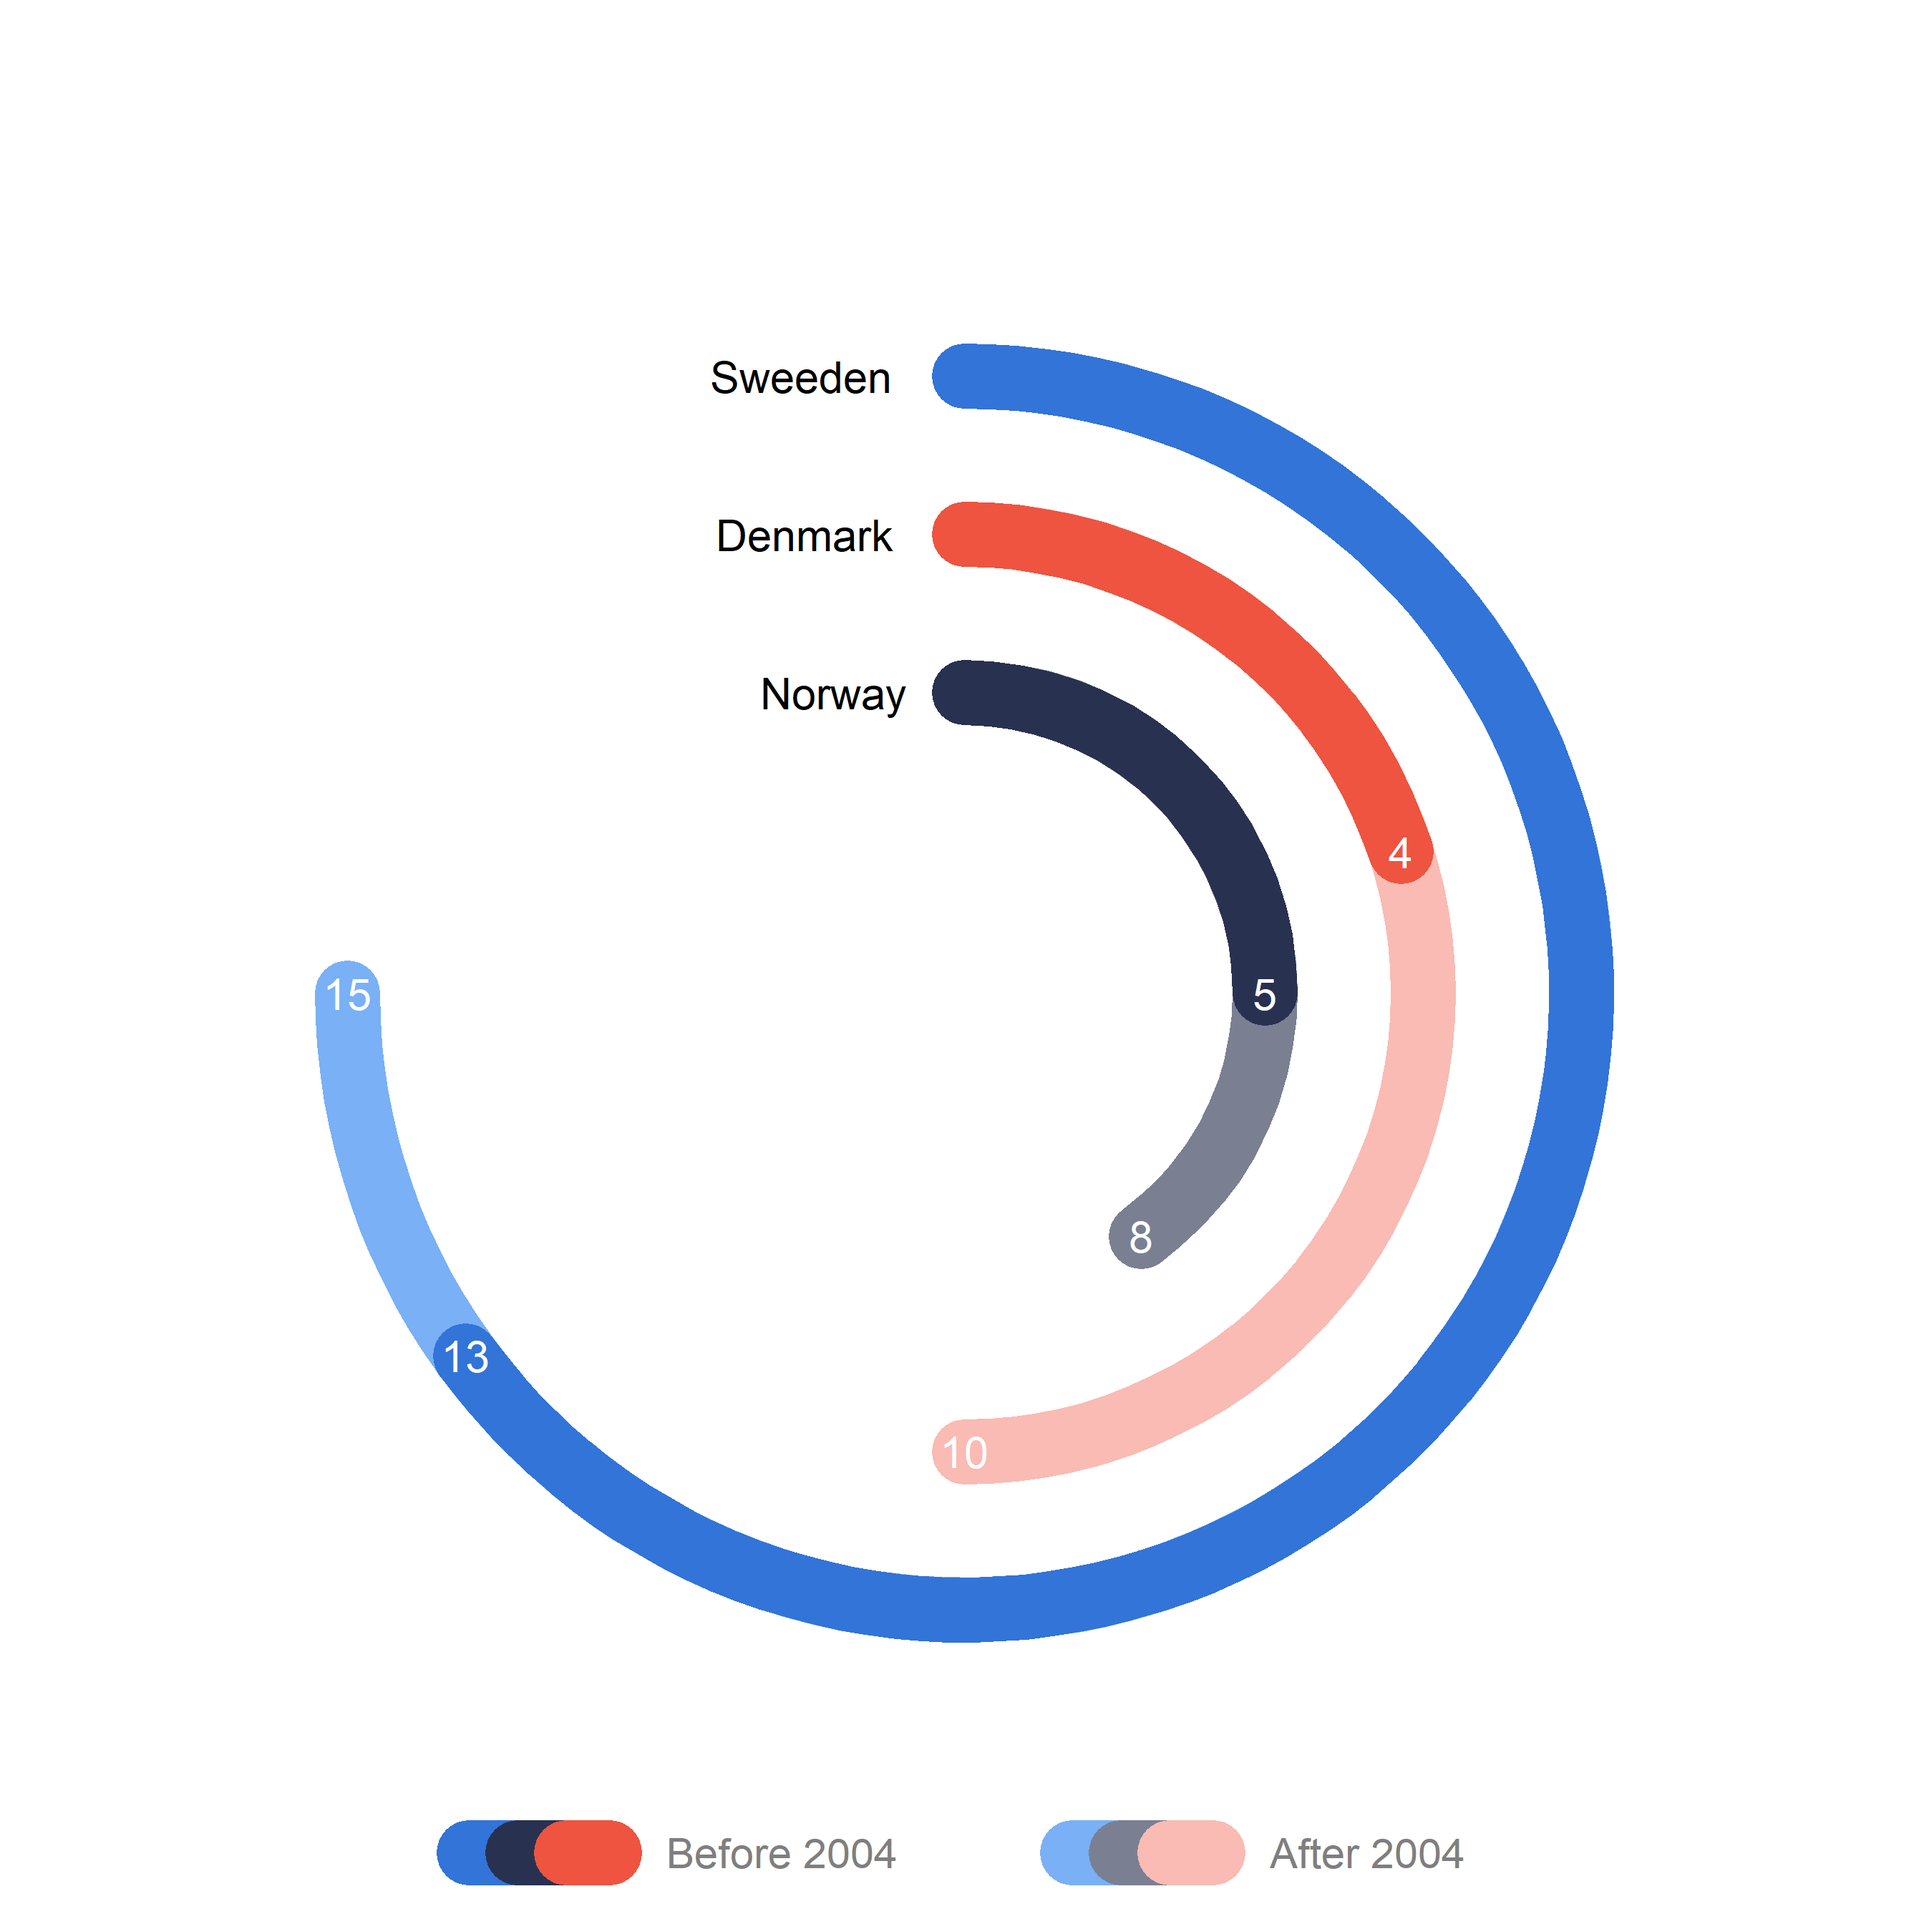
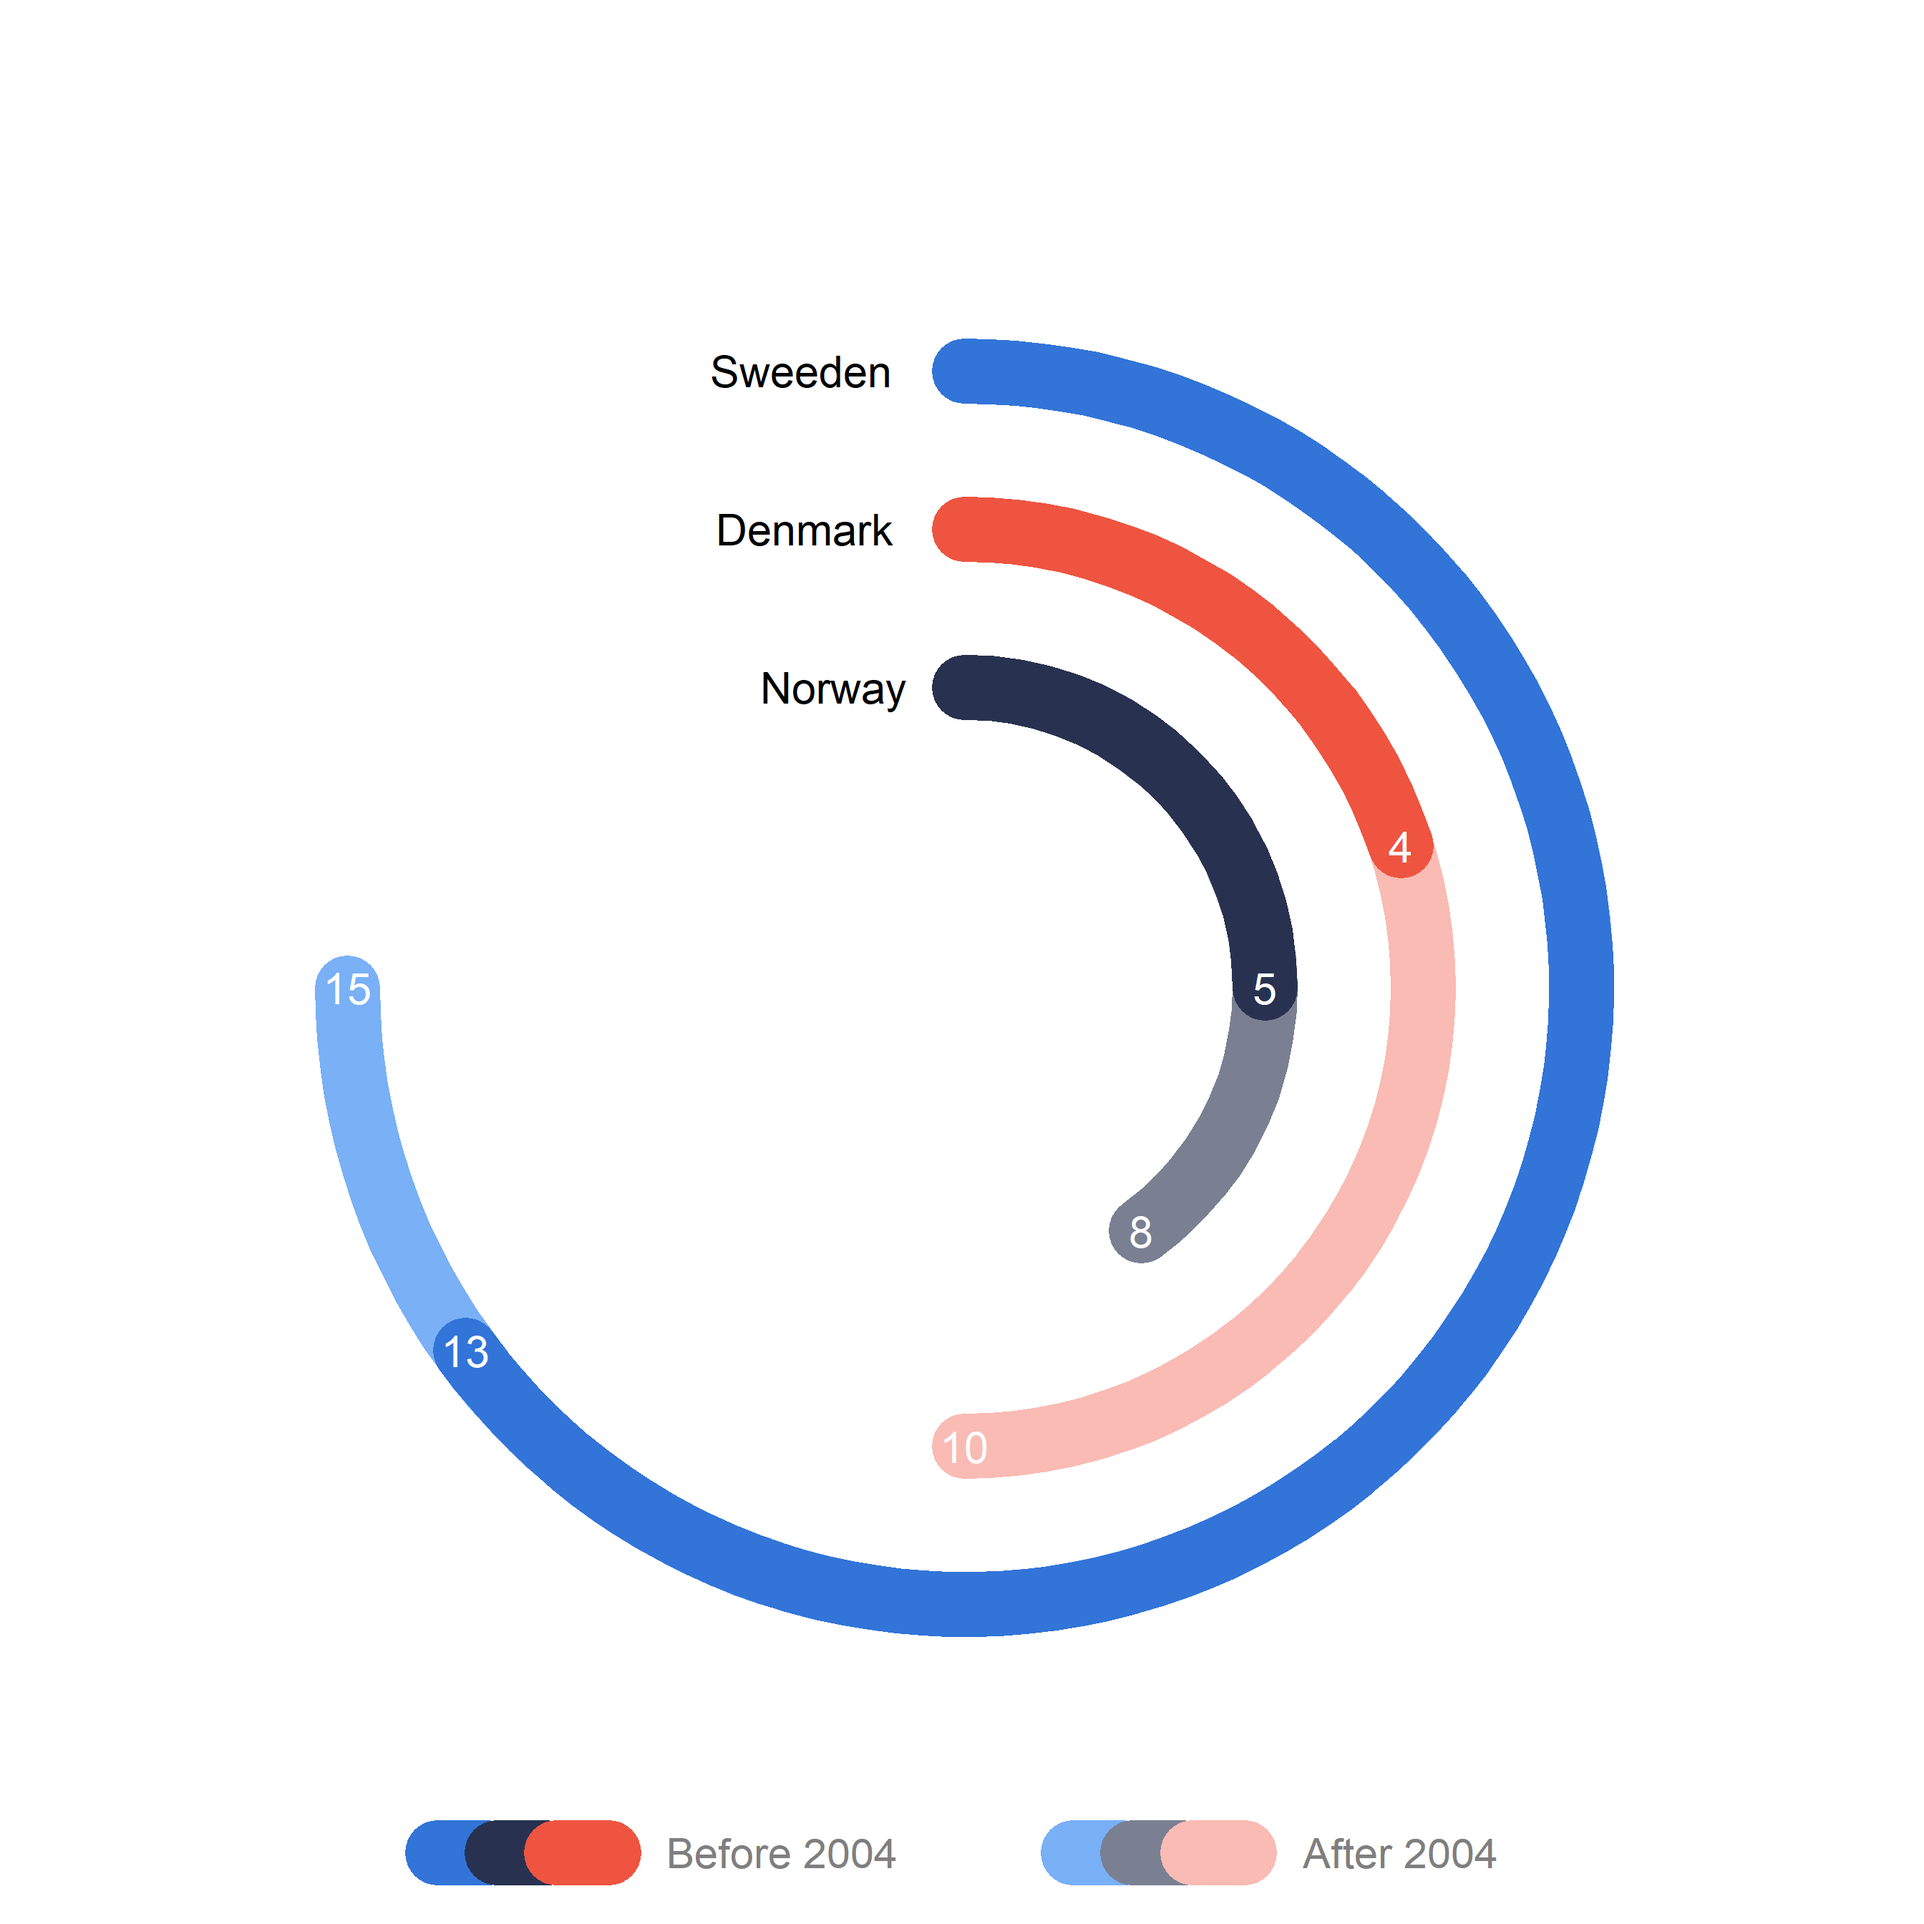
0.085

diff --git a/docs/radial.html b/docs/radial.html
@@ -502,7 +502,7 @@ Figure&nbsp;1: The original graph obtained from 1 dataset 100 visualizations cre
 <span>  <span class="fu"><a href="https://ggplot2.tidyverse.org/reference/geom_text.html">geom_text</a></span><span class="op">(</span>data <span class="op">=</span> <span class="fu"><a href="https://dplyr.tidyverse.org/reference/filter.html">filter</a></span><span class="op">(</span><span class="va">df</span>, <span class="va">group</span> <span class="op">==</span> <span class="st">"group1"</span><span class="op">)</span>, <span class="fu"><a href="https://ggplot2.tidyverse.org/reference/aes.html">aes</a></span><span class="op">(</span>x <span class="op">=</span> <span class="fl">0</span>, <span class="va">y</span>, label <span class="op">=</span> <span class="va">country</span><span class="op">)</span>, size <span class="op">=</span> <span class="fl">8</span>, hjust <span class="op">=</span> <span class="fl">1.4</span><span class="op">)</span> <span class="op">+</span></span>
 <span>  <span class="fu"><a href="https://ggplot2.tidyverse.org/reference/scale_manual.html">scale_color_manual</a></span><span class="op">(</span>values <span class="op">=</span> <span class="va">cols1</span><span class="op">)</span> <span class="op">+</span></span>
 <span>  <span class="fu"><a href="https://ggplot2.tidyverse.org/reference/guides.html">guides</a></span><span class="op">(</span>color <span class="op">=</span> <span class="fu"><a href="https://ggplot2.tidyverse.org/reference/guide_legend.html">guide_legend</a></span><span class="op">(</span>title <span class="op">=</span> <span class="fu"><a href="https://rdrr.io/r/base/paste.html">paste0</a></span><span class="op">(</span><span class="fu"><a href="https://rdrr.io/r/base/strrep.html">strrep</a></span><span class="op">(</span><span class="st">" "</span>, <span class="fl">5</span><span class="op">)</span>, <span class="st">"After 2004"</span><span class="op">)</span>,</span>
-<span>                              override.aes <span class="op">=</span> <span class="fu"><a href="https://rdrr.io/r/base/list.html">list</a></span><span class="op">(</span>size <span class="op">=</span> <span class="fu"><a href="https://rdrr.io/r/base/c.html">c</a></span><span class="op">(</span><span class="fl">10</span>, <span class="fl">10</span>, <span class="fl">10</span><span class="op">)</span><span class="op">)</span>,</span>
+<span>                              override.aes <span class="op">=</span> <span class="fu"><a href="https://rdrr.io/r/base/list.html">list</a></span><span class="op">(</span>size <span class="op">=</span> <span class="fu"><a href="https://rdrr.io/r/base/c.html">c</a></span><span class="op">(</span><span class="fl">12</span>, <span class="fl">12</span>, <span class="fl">12</span><span class="op">)</span><span class="op">)</span>,</span>
 <span>                              reverse <span class="op">=</span> <span class="cn">TRUE</span>,</span>
 <span>                              keywidth <span class="op">=</span> <span class="fl">1.5</span>, order <span class="op">=</span> <span class="fl">1</span>,</span>
 <span>                              title.position <span class="op">=</span> <span class="st">"right"</span><span class="op">)</span><span class="op">)</span> <span class="op">+</span></span>
@@ -516,7 +516,7 @@ Figure&nbsp;1: The original graph obtained from 1 dataset 100 visualizations cre
 <span>  <span class="fu"><a href="https://ggplot2.tidyverse.org/reference/scale_continuous.html">scale_x_continuous</a></span><span class="op">(</span>limits <span class="op">=</span> <span class="fu"><a href="https://rdrr.io/r/base/c.html">c</a></span><span class="op">(</span><span class="fl">0</span>, <span class="fl">20</span><span class="op">)</span><span class="op">)</span> <span class="op">+</span></span>
 <span>  <span class="fu"><a href="https://ggplot2.tidyverse.org/reference/coord_polar.html">coord_polar</a></span><span class="op">(</span><span class="op">)</span> <span class="op">+</span></span>
 <span>  <span class="fu"><a href="https://ggplot2.tidyverse.org/reference/guides.html">guides</a></span><span class="op">(</span>color <span class="op">=</span> <span class="fu"><a href="https://ggplot2.tidyverse.org/reference/guide_legend.html">guide_legend</a></span><span class="op">(</span>title <span class="op">=</span> <span class="fu"><a href="https://rdrr.io/r/base/paste.html">paste0</a></span><span class="op">(</span><span class="fu"><a href="https://rdrr.io/r/base/strrep.html">strrep</a></span><span class="op">(</span><span class="st">" "</span>, <span class="fl">5</span><span class="op">)</span>, <span class="st">"Before 2004"</span>, <span class="fu"><a href="https://rdrr.io/r/base/strrep.html">strrep</a></span><span class="op">(</span><span class="st">" "</span>, <span class="fl">15</span><span class="op">)</span><span class="op">)</span>,</span>
-<span>                              reverse <span class="op">=</span> <span class="cn">TRUE</span>, override.aes <span class="op">=</span> <span class="fu"><a href="https://rdrr.io/r/base/list.html">list</a></span><span class="op">(</span>size <span class="op">=</span> <span class="fu"><a href="https://rdrr.io/r/base/c.html">c</a></span><span class="op">(</span><span class="fl">10</span>, <span class="fl">10</span>, <span class="fl">10</span><span class="op">)</span><span class="op">)</span>,</span>
+<span>                              reverse <span class="op">=</span> <span class="cn">TRUE</span>, override.aes <span class="op">=</span> <span class="fu"><a href="https://rdrr.io/r/base/list.html">list</a></span><span class="op">(</span>size <span class="op">=</span> <span class="fu"><a href="https://rdrr.io/r/base/c.html">c</a></span><span class="op">(</span><span class="fl">12</span>, <span class="fl">12</span>, <span class="fl">12</span><span class="op">)</span><span class="op">)</span>,</span>
 <span>                              keywidth <span class="op">=</span> <span class="fl">1.5</span>, order <span class="op">=</span> <span class="fl">1</span>,</span>
 <span>                              title.position <span class="op">=</span> <span class="st">"right"</span><span class="op">)</span><span class="op">)</span> <span class="op">+</span></span>
 <span>  <span class="fu"><a href="https://ggplot2.tidyverse.org/reference/theme.html">theme</a></span><span class="op">(</span>panel.background <span class="op">=</span> <span class="fu"><a href="https://ggplot2.tidyverse.org/reference/element.html">element_blank</a></span><span class="op">(</span><span class="op">)</span>,</span>
